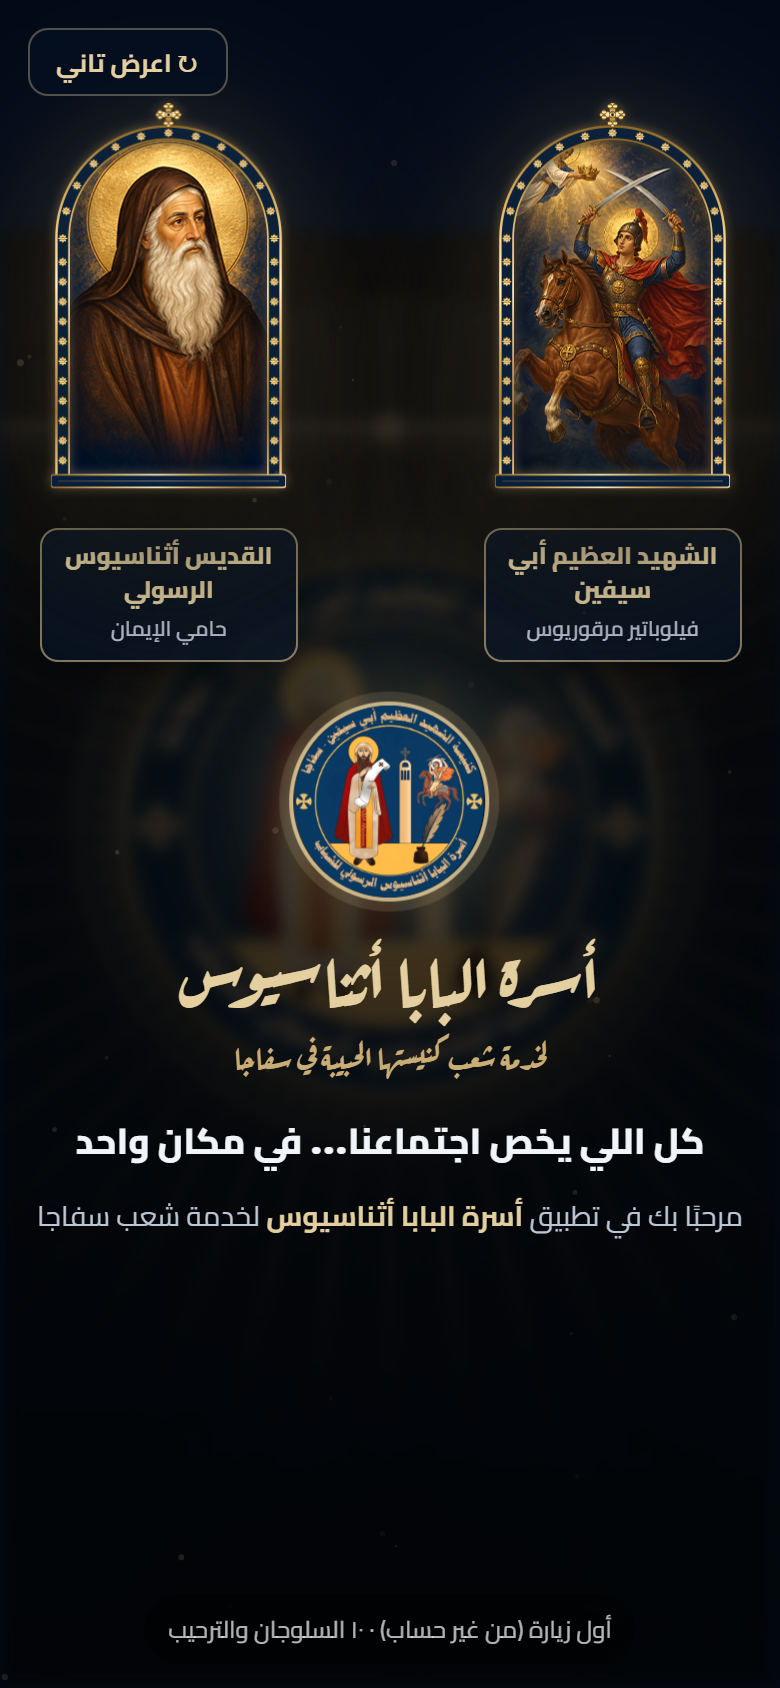
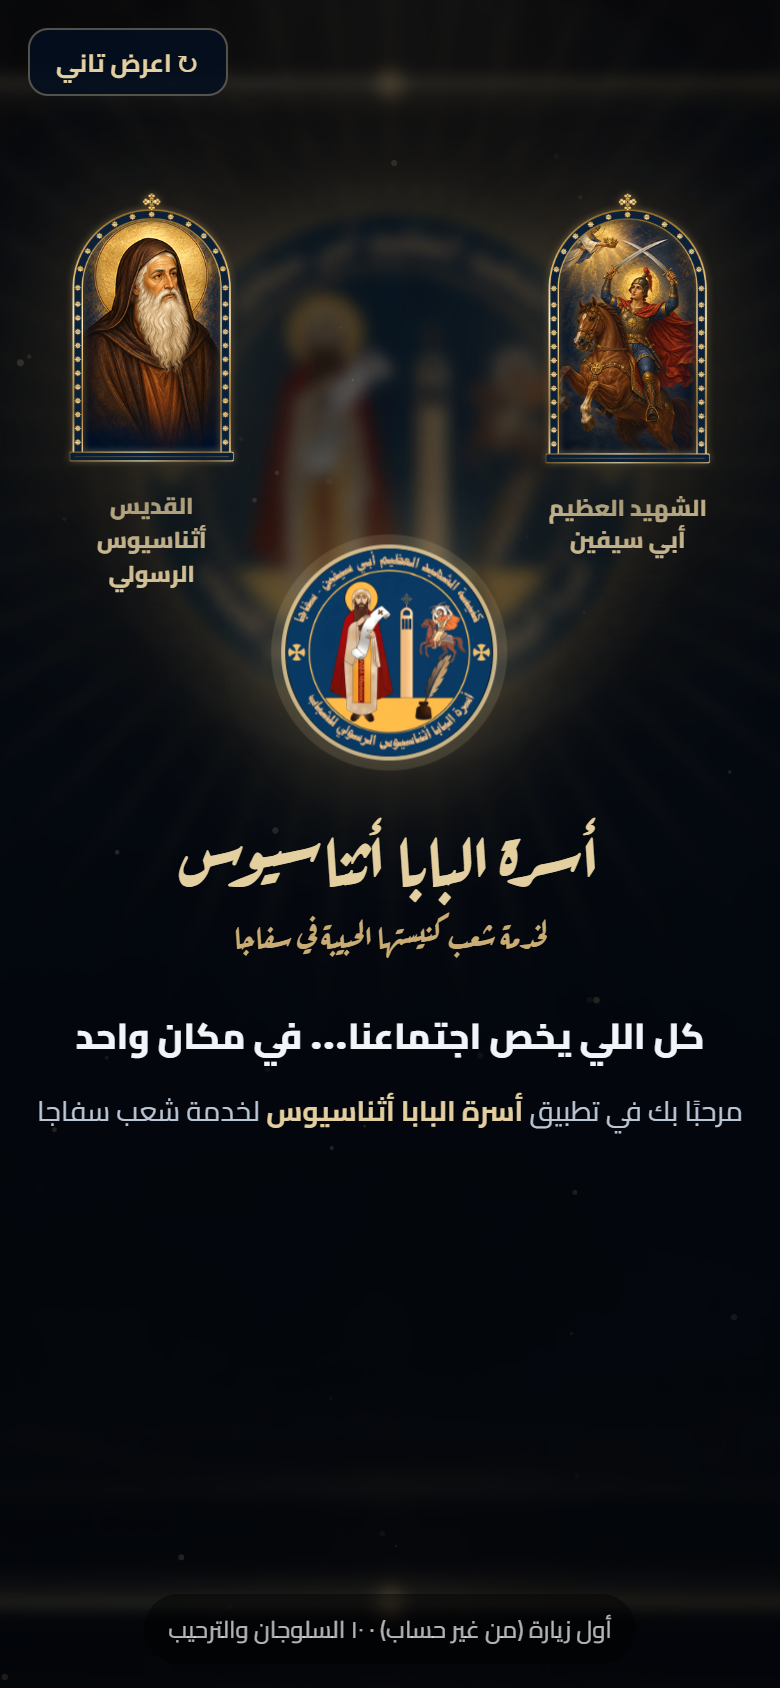
docs(site): S1 intro v3.3 — phone end scene back to the first v3 layout (small saints on top, dark cover backdrop), desktop approved

diff --git a/docs/site-redesign/intro.html b/docs/site-redesign/intro.html
@@ -80,15 +80,16 @@
   .plaque { display: block; margin: 12px auto 0; width: max-content; max-width: 130%; padding: 7px 16px 8px; border-radius: 12px; text-align: center; background: rgb(4 16 34 / .85); border: 1px solid rgb(240 216 160 / .55); box-shadow: 0 10px 24px -12px #000; }
   .plaque b { display: block; font-size: clamp(14px, 1.25vw, 18px); font-weight: 800; color: #f4dfae; line-height: 1.5; }
   .plaque i { display: block; font-style: normal; font-size: clamp(11.5px, 1vw, 13.5px); font-weight: 600; color: var(--ink-2); }
+  /* phone = the first v3 phone layout (owner's pick): saints small at the top, logo under them, the church art as a dark cover;
+     saints, logo and buttons lit, only the backdrop dim. Athanasius left, Abu Sefein right. */
   @media (max-width: 700px) {
-    .world__church { filter: brightness(.24) saturate(.7) blur(4px) !important; }
-    .saint { top: 5.5%; width: 33vw; margin-top: 0 !important; }
-    .saint--athanasius { left: 5vw; } .saint--sefein { right: 5vw; }
-    .plaque { margin-top: 8px; padding: 5px 8px 6px; border-radius: 9px; max-width: 38vw; width: auto; }
-    .plaque b { font-size: 12px; line-height: 1.4; } .plaque i { font-size: 10.5px; }
-    .brand { top: 69%; transform: translate(-50%, -50%); }
-    .logo { width: 96px; }
-    .name { margin-top: 14px; } .slogan { margin-top: 14px; } .cta { margin-top: 18px; }
+    .world__church { inset: -6%; background-size: cover !important; background-position: center 40% !important; filter: brightness(.36) saturate(.75) blur(4px) !important; }
+    .saint { top: 11%; width: 23vw; margin-top: 0 !important; }
+    .saint--athanasius { left: 8vw; } .saint--sefein { right: 8vw; }
+    .plaque { margin-top: 6px; padding: 0; border: 0; background: none; box-shadow: none; max-width: 34vw; width: auto; }
+    .plaque b { font-size: 11.5px; line-height: 1.45; color: #f4dfae; } .plaque i { display: none; }
+    .brand { top: 50%; transform: translate(-50%, -30%); }
+    .logo { width: 104px; }
   }
   /* the tap gate (unlocks sound) */
   .gate { position: absolute; inset: 0; z-index: 8; display: grid; place-items: center; background: radial-gradient(50% 46% at 50% 48%, #0b2343, #01050d 80%); cursor: pointer; transition: opacity .5s cubic-bezier(.16,1,.3,1); }
@@ -198,6 +199,7 @@
 
   function placeChurch() {
     var el = $('.logo'), ch = $('#church'); if (!el) return;
+    if (matchMedia('(max-width: 700px)').matches) { ch.style.backgroundSize = ''; ch.style.backgroundPosition = ''; return; }
     var r = el.getBoundingClientRect(), cx = r.left + r.width / 2, cy = r.top + r.height / 2;
     var k = Math.max(innerWidth / 1134, innerHeight / 543) * 1.18, ls = r.width / (k * 160);   // art logo ≈ 160 px wide at (567, 160)
     k = Math.max(k, k * ls > k ? k : k);
@@ -243,7 +245,7 @@
     A('.site', [{ opacity: 0 }, { opacity: 1 }], { duration: 300, delay: 3620 });
     stage(3600, '٧ دخلت عالم الكارت');
     A('#world', [{ opacity: 0 }, { opacity: 1 }], { duration: 500, delay: 3580 });
-    A('.world__church', [{ transform: 'scale(1.3)', filter: 'brightness(.9) saturate(.8) blur(2px)' }, { transform: 'scale(1)', filter: matchMedia('(max-width: 700px)').matches ? 'brightness(.24) saturate(.7) blur(4px)' : 'brightness(.34) saturate(.8) blur(2px)' }], { duration: 2400, delay: 3580, easing: EXPO });
+    A('.world__church', [{ transform: 'scale(1.3)', filter: 'brightness(.9) saturate(.8) blur(2px)' }, { transform: 'scale(1)', filter: matchMedia('(max-width: 700px)').matches ? 'brightness(.36) saturate(.75) blur(4px)' : 'brightness(.34) saturate(.8) blur(2px)' }], { duration: 2400, delay: 3580, easing: EXPO });
     A('.saint--athanasius', [{ opacity: 0, transform: 'translateX(-70px) scale(.9)', filter: 'blur(6px)' }, { opacity: 1, transform: 'none', filter: 'blur(0)' }], { duration: 850, delay: 3900 });
     A('.saint--sefein', [{ opacity: 0, transform: 'translateX(70px) scale(.9)', filter: 'blur(6px)' }, { opacity: 1, transform: 'none', filter: 'blur(0)' }], { duration: 850, delay: 4000 });
     // 6 — the logo hits with a shockwave; then name, line, slogan, welcome, account card
